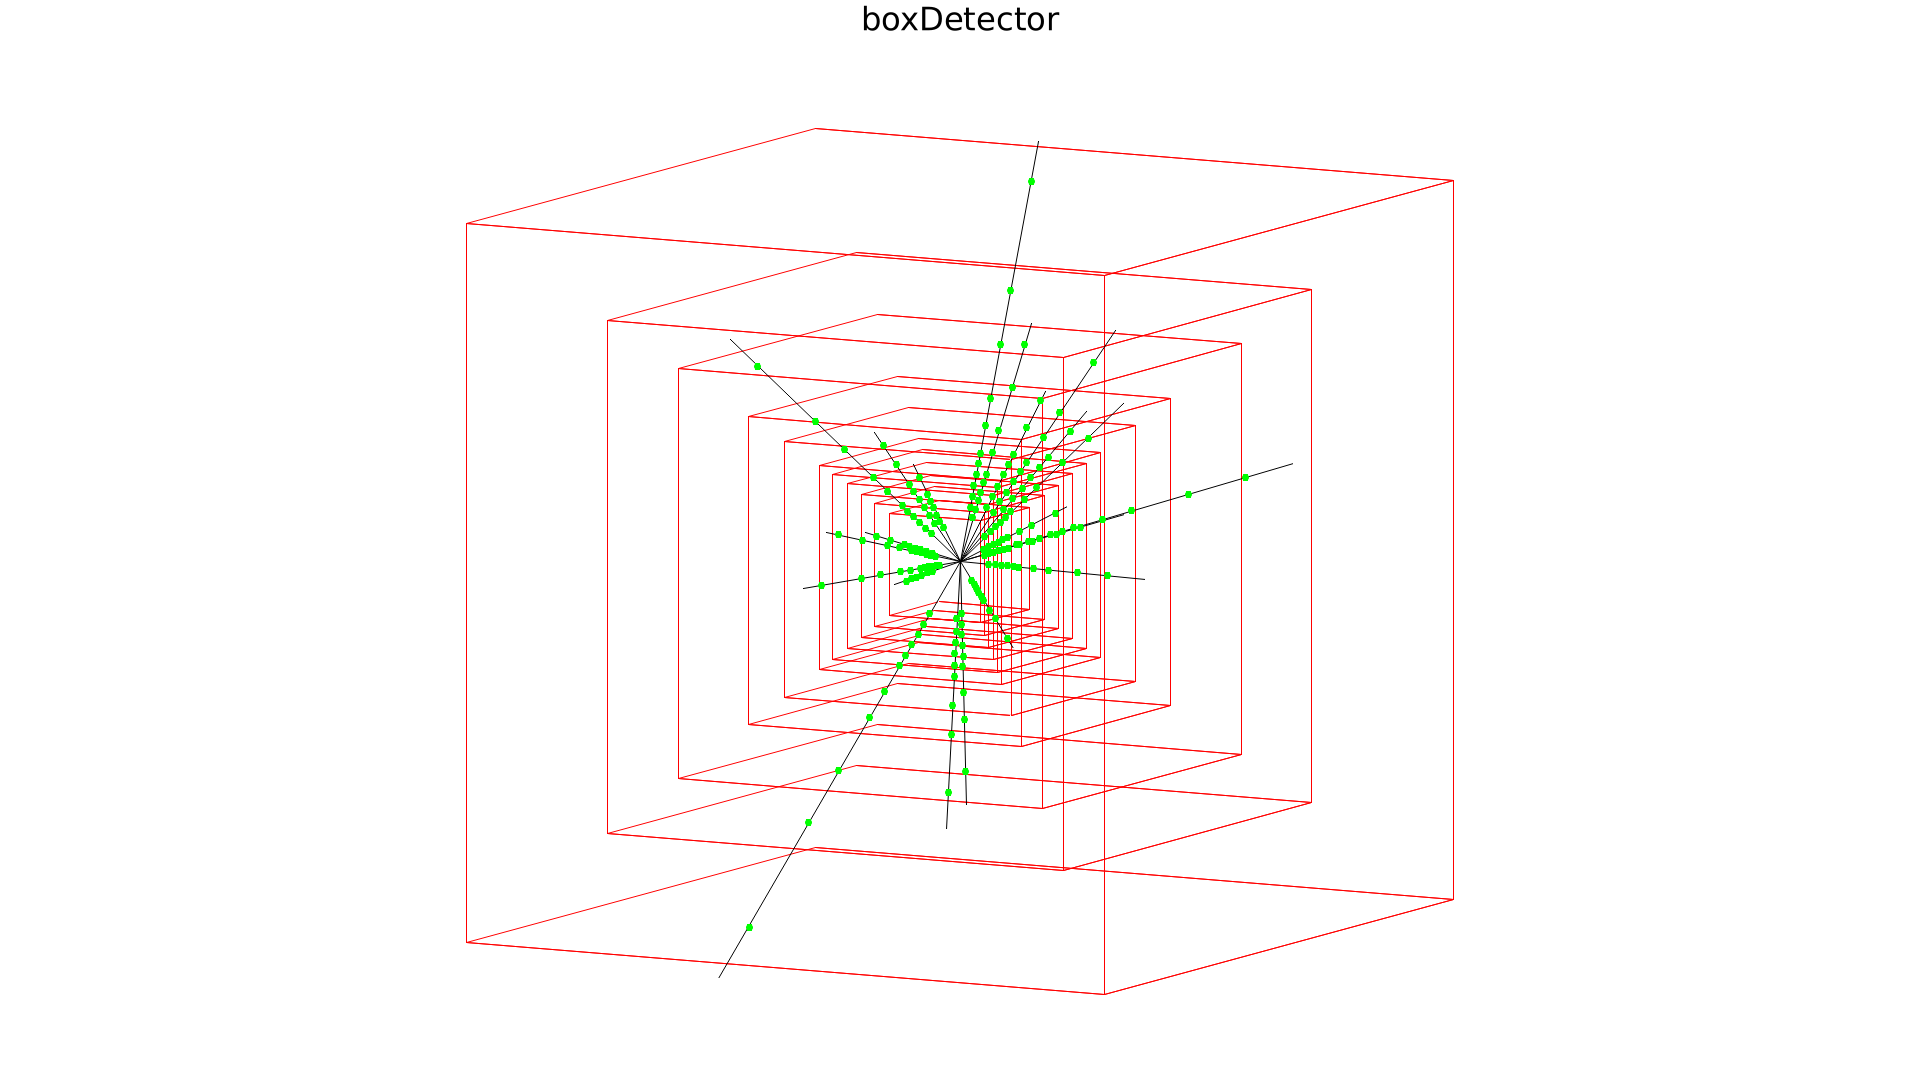
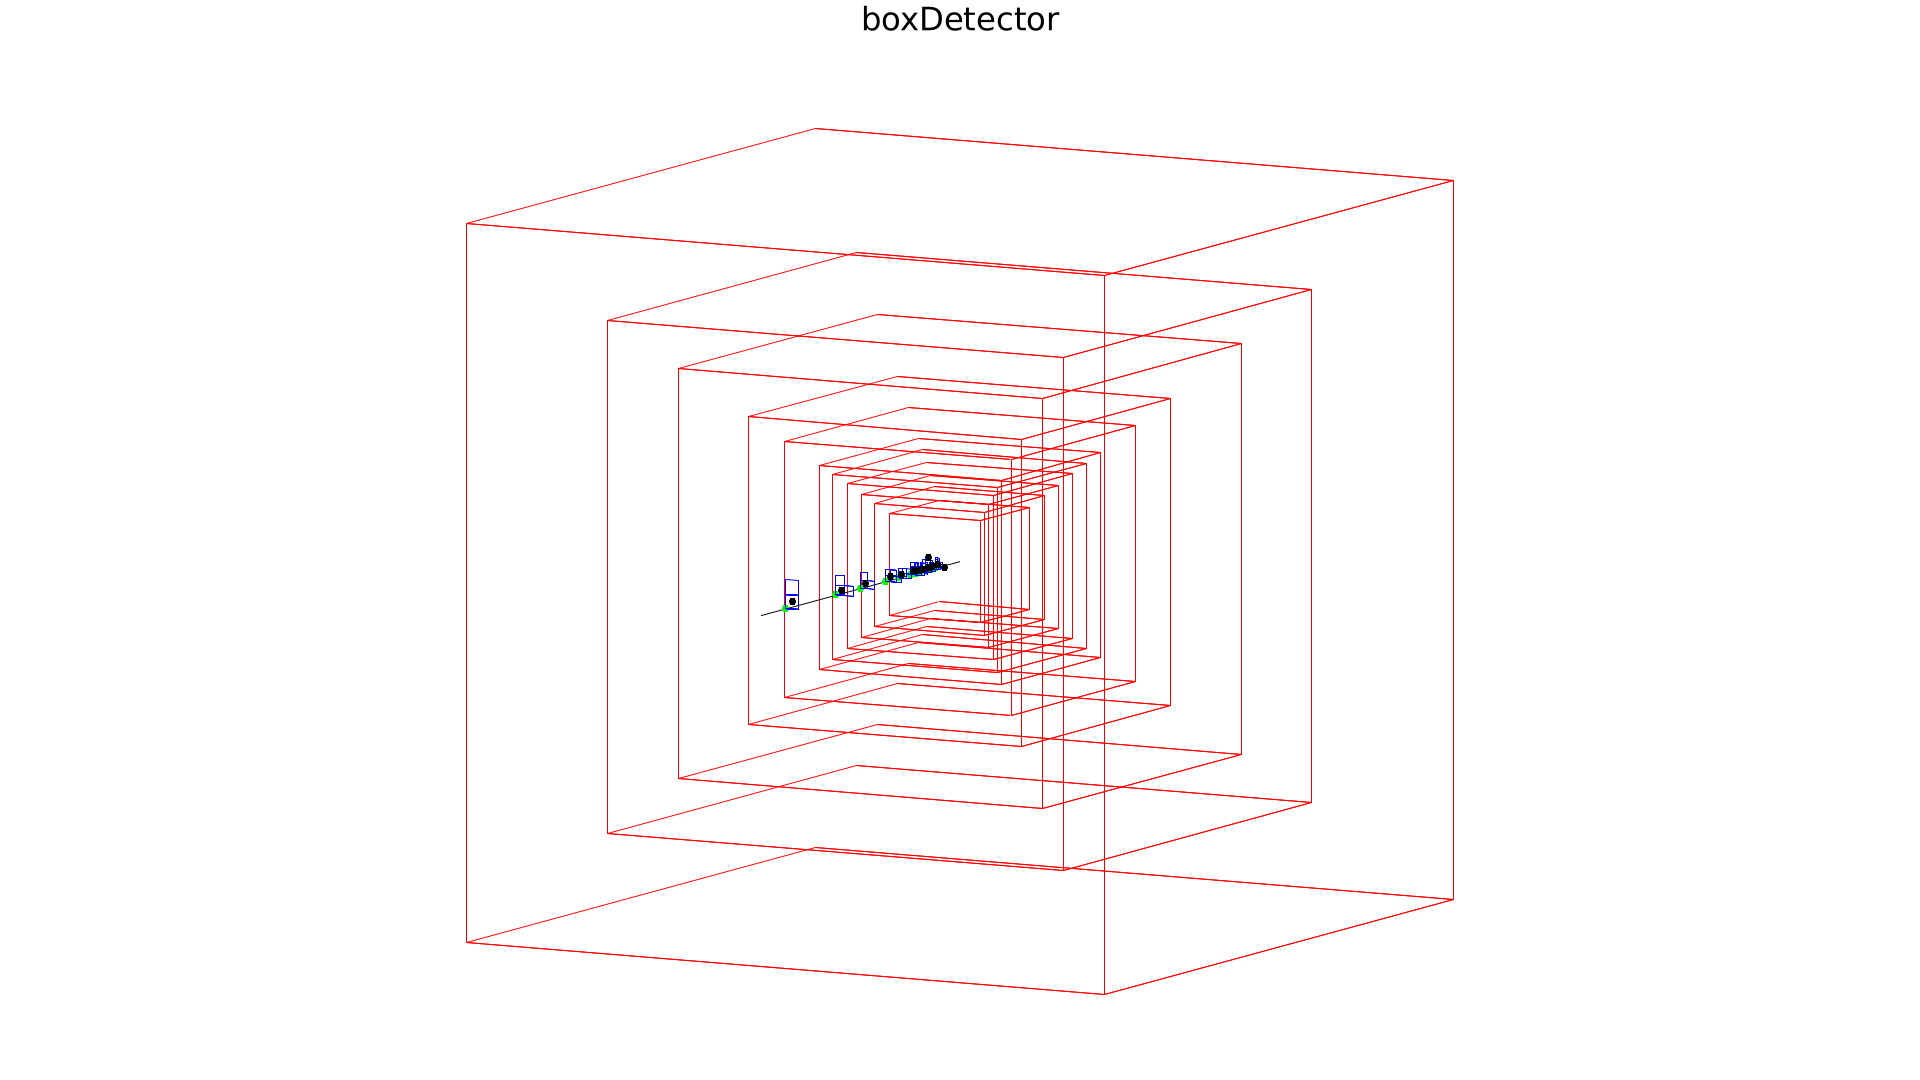
Progress hit spreading from ray intersections

Changed region(s): [[0.4062, 0.3667, 0.5938, 0.6111]]

diff --git a/src/event_generator.rs b/src/event_generator.rs
@@ -3,12 +3,15 @@
 // check whether intersections are within detector boundaries
 // create hits with a random spread
 
+use crate::clustering::Hit;
 use crate::detector_module::{DetectorModule, PixelPosition};
 use rand::distributions::Distribution;
 use rand::Rng;
+use std::collections::HashMap;
 use std::f64::consts::PI;
 
 pub const ENERGY_LOSS_PER_UNIT_DISTANCE: f64 = 1.;
+pub const ENERGY_HIT_SPREAD: u64 = 3;
 
 pub struct Ray {
     pub theta: f64,
@@ -18,7 +21,11 @@ pub struct Ray {
 }
 
 impl Ray {
-    pub fn intersect(&self, module: &DetectorModule) -> Option<((f64, f64, f64), PixelPosition)> {
+    // Returns an optional 3D point of intersection and the remaining energy of the ray at this point
+    pub fn intersect(
+        &self,
+        module: &DetectorModule,
+    ) -> Option<(((f64, f64, f64), f64), PixelPosition)> {
         /*
          * Any point along the ray can be defined as r * e_r,
          * with: e_r = (sin(theta)cos(phi), sin(theta)sin(phi), cos(theta)),
@@ -56,8 +63,9 @@ impl Ray {
             / (theta.cos() * (a * d - b * c)
                 + theta.sin() * ((c * f - d * e) * phi.cos() + (b * e - a * f) * phi.sin()));
 
-        if r > 0. && self.energy > r * ENERGY_LOSS_PER_UNIT_DISTANCE {
+        if r > 0. {
             if let Ok((x, y, z)) = self.at_radius(r) {
+                let energy = self.energy_at_radius(r).unwrap();
                 // Three different factorizations of the solution need to be calculated
                 // because depending on the rotation matrix up to 2 of these are
                 // invalid because they result in a division by 0
@@ -71,7 +79,7 @@ impl Ray {
                             (module_x * pixel_dims.0 as f64 / dims.0) as u64,
                             (module_y * pixel_dims.1 as f64 / dims.1) as u64,
                         );
-                        return Some(((x, y, z), pixel_pos));
+                        return Some((((x, y, z), energy), pixel_pos));
                     }
                 } else if (a * f - b * e - 0.).abs() > 10. * std::f64::EPSILON {
                     let module_x = (f * (x - g) + b * (i - z)) / (a * f - b * e);
@@ -83,7 +91,7 @@ impl Ray {
                             (module_x * pixel_dims.0 as f64 / dims.0) as u64,
                             (module_y * pixel_dims.1 as f64 / dims.1) as u64,
                         );
-                        return Some(((x, y, z), pixel_pos));
+                        return Some((((x, y, z), energy), pixel_pos));
                     }
                 } else if (c * f - d * e - 0.).abs() > 10. * std::f64::EPSILON {
                     let module_x = (f * (y - h) + d * (i - z)) / (c * f - d * e);
@@ -95,7 +103,7 @@ impl Ray {
                             (module_x * pixel_dims.0 as f64 / dims.0) as u64,
                             (module_y * pixel_dims.1 as f64 / dims.1) as u64,
                         );
-                        return Some(((x, y, z), pixel_pos));
+                        return Some((((x, y, z), energy), pixel_pos));
                     }
                 }
             }
@@ -114,9 +122,50 @@ impl Ray {
         ))
     }
 
+    pub fn energy_at_radius(&self, r: f64) -> Result<f64, &'static str> {
+        if r > self.energy / ENERGY_LOSS_PER_UNIT_DISTANCE {
+            return Err("Radius larger than ray's reach.");
+        }
+        Ok(self.energy - r * ENERGY_LOSS_PER_UNIT_DISTANCE)
+    }
+
+    #[allow(unused)]
     pub fn end(&self) -> (f64, f64, f64) {
         self.at_radius(self.energy / ENERGY_LOSS_PER_UNIT_DISTANCE)
             .unwrap()
+    }
+
+    pub fn create_hits<R: Rng + ?Sized>(
+        &self,
+        modules: &HashMap<u64, DetectorModule>,
+        rng: &mut R,
+    ) -> Vec<Hit> {
+        static DIST: Gauss = Gauss {
+            mean: 0.,
+            sigma: 0.2,
+        };
+
+        let mut result = Vec::new();
+        for (id, module) in modules {
+            if let Some(((_, remaining_energy), centre_pixel)) = self.intersect(module) {
+                let mut partial = Vec::new();
+                for _ in 0..1 + remaining_energy as u64 / ENERGY_HIT_SPREAD {
+                    let pixel_dims = module.pixel_dims();
+                    let dims = module.dims();
+                    loop {
+                        let x = centre_pixel.0 + (DIST.sample(rng) * pixel_dims.0 as f64 / dims.0).round() as u64;
+                        let y = centre_pixel.1 + (DIST.sample(rng) * pixel_dims.1 as f64 / dims.1).round() as u64;
+                        let hit = Hit::new(*id, (x, y));
+                        if x >= pixel_dims.0 || y >= pixel_dims.1 || partial.contains(&hit) {
+                            break;
+                        }
+                        partial.push(hit);
+                    }
+                    result.append(&mut partial);
+                }
+            }
+        }
+        result
     }
 }
 
@@ -194,6 +243,26 @@ pub fn generate_random_rays(total_energy: f64, min_energy: f64, dist: Distributi
         result.push(Ray { theta, phi, energy });
     }
     result
+}
+
+pub fn create_hits(rays: &Vec<Ray>, modules: &HashMap<u64, DetectorModule>) -> Vec<Hit> {
+    let mut hits = Vec::new();
+    let mut rng = rand::thread_rng();
+    for ray in rays {
+        hits.append(&mut ray.create_hits(modules, &mut rng));
+    }
+    hits
+}
+
+pub fn generate_random_event(
+    total_energy: f64,
+    min_energy: f64,
+    dist: Distributions,
+    modules: &HashMap<u64, DetectorModule>,
+) -> (Vec<Ray>, Vec<Hit>) {
+    let rays = generate_random_rays(total_energy, min_energy, dist);
+    let hits = create_hits(&rays, modules);
+    (rays, hits)
 }
 
 #[cfg(test)]
@@ -298,7 +367,7 @@ mod test {
             phi: 0.,
             energy: 12.,
         };
-        let (result, pixel) = ray.intersect(&module).unwrap();
+        let ((result, _), pixel) = ray.intersect(&module).unwrap();
 
         let expected = (10., 0., 0.);
         println!("result: {:?}", result);
@@ -340,7 +409,7 @@ mod test {
             phi: PI / 2.,
             energy: 12.,
         };
-        let (result, pixel) = ray.intersect(&module).unwrap();
+        let ((result, _), pixel) = ray.intersect(&module).unwrap();
 
         let expected = (0., 10., 0.);
         println!("result: {:?}", result);
@@ -358,7 +427,7 @@ mod test {
             phi: 0.,
             energy: 12.,
         };
-        let (result, pixel) = ray.intersect(&module).unwrap();
+        let ((result, _), pixel) = ray.intersect(&module).unwrap();
 
         let expected = (0., 0., 10.);
         println!("result: {:?}", result);

diff --git a/src/main.rs b/src/main.rs
@@ -54,28 +54,11 @@ fn main() -> Result<(), Box<dyn std::error::Error>> {
         chart.draw_series(std::iter::once(PathElement::new(verts, RED)))?;
     }
 
-    // for hit in &hits {
-    //     let mut verts: Vec<_> = (&modules)[&hit.module_id]
-    //         .pixel_vertices(hit.pos)?
-    //         .iter()
-    //         .map(|&it| (it.data[0], it.data[1], it.data[2]))
-    //         .collect();
-    //     verts.push(verts[0]);
-    //     chart.draw_series(std::iter::once(PathElement::new(verts, BLUE)))?;
-    // }
+    // let dist = event_generator::Distributions::Gauss(event_generator::Gauss::new(10., 10.));
+    // let (rays, hits) = event_generator::generate_random_event(10., 2.5, dist, &modules);
 
-    // let points = clustering::clustering(&modules, hits)?;
-
-    // for point in points {
-    //     chart.plotting_area().draw(&plotters::element::Circle::new(
-    //         (point.data[0], point.data[1], point.data[2]),
-    //         5,
-    //         BLACK.filled(),
-    //     ))?;
-    // }
-
-    let dist = event_generator::Distributions::Gauss(event_generator::Gauss::new(10., 10.));
-    let rays = event_generator::generate_random_rays(300., 2.5, dist);
+    let rays = vec![event_generator::Ray{theta:0., phi:0., energy:50.}];
+    let hits = event_generator::create_hits(&rays, &modules);
     for ray in &rays {
         chart.draw_series(std::iter::once(PathElement::new(
             [
@@ -93,7 +76,7 @@ fn main() -> Result<(), Box<dyn std::error::Error>> {
 
     for ray in &rays {
         for (_, module) in &modules {
-            if let Some((pos, _)) = ray.intersect(module) {
+            if let Some(((pos, _), _)) = ray.intersect(module) {
                 chart.plotting_area().draw(&plotters::element::Circle::new(
                     pos,
                     3,
@@ -101,6 +84,26 @@ fn main() -> Result<(), Box<dyn std::error::Error>> {
                 ))?;
             }
         }
+    }
+
+    for hit in &hits {
+        let mut verts: Vec<_> = (&modules)[&hit.module_id]
+            .pixel_vertices(hit.pos)?
+            .iter()
+            .map(|&it| (it.data[0], it.data[1], it.data[2]))
+            .collect();
+        verts.push(verts[0]);
+        chart.draw_series(std::iter::once(PathElement::new(verts, BLUE)))?;
+    }
+
+    let points = clustering::clustering(&modules, hits)?;
+
+    for point in points {
+        chart.plotting_area().draw(&plotters::element::Circle::new(
+            (point.data[0], point.data[1], point.data[2]),
+            3,
+            BLACK.filled(),
+        ))?;
     }
 
     // To avoid the IO failure being ignored silently, we manually call the present function

diff --git a/src/file_writer.rs b/src/file_writer.rs
@@ -32,8 +32,8 @@ pub fn create_box_detector(
                 transl.0,
                 transl.1,
                 transl.2,
-                dim.round() as u64,
-                dim.round() as u64,
+                50,
+                50,
                 rot.0,
                 rot.1,
                 rot.2
